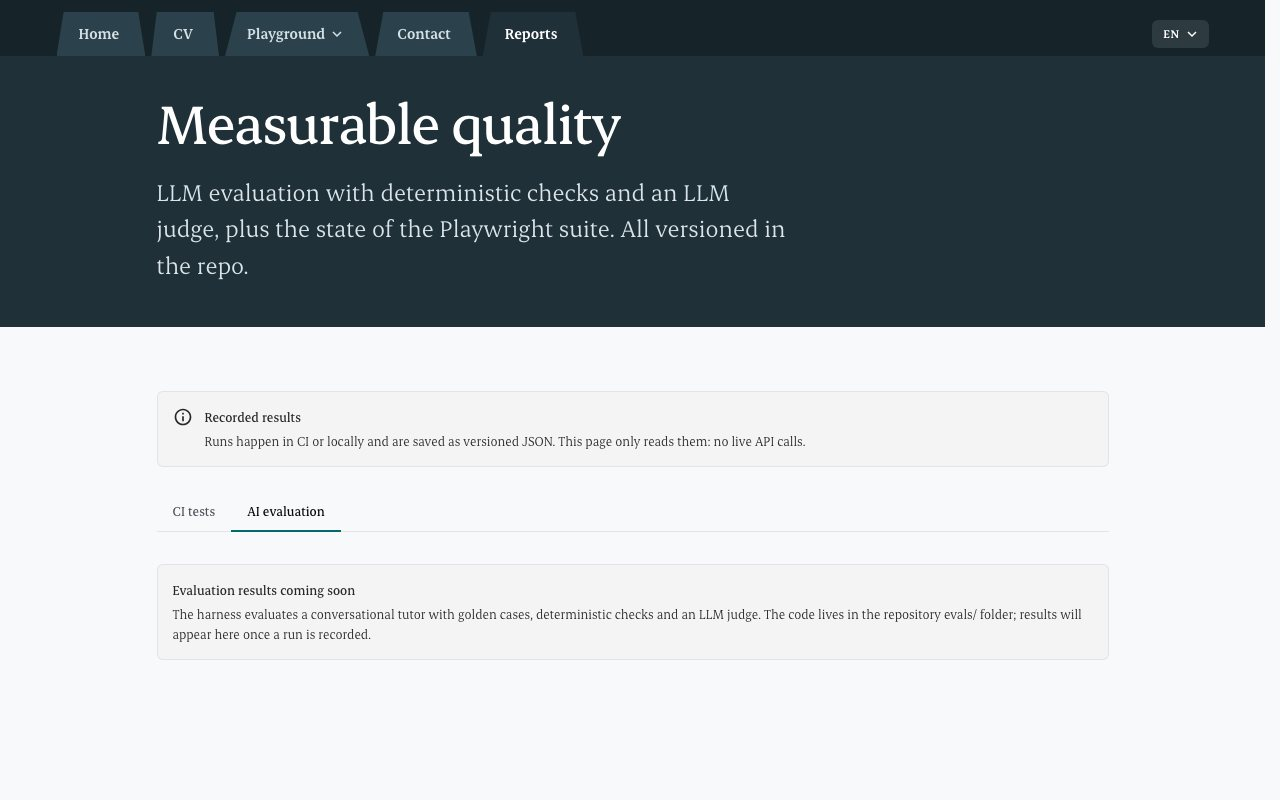
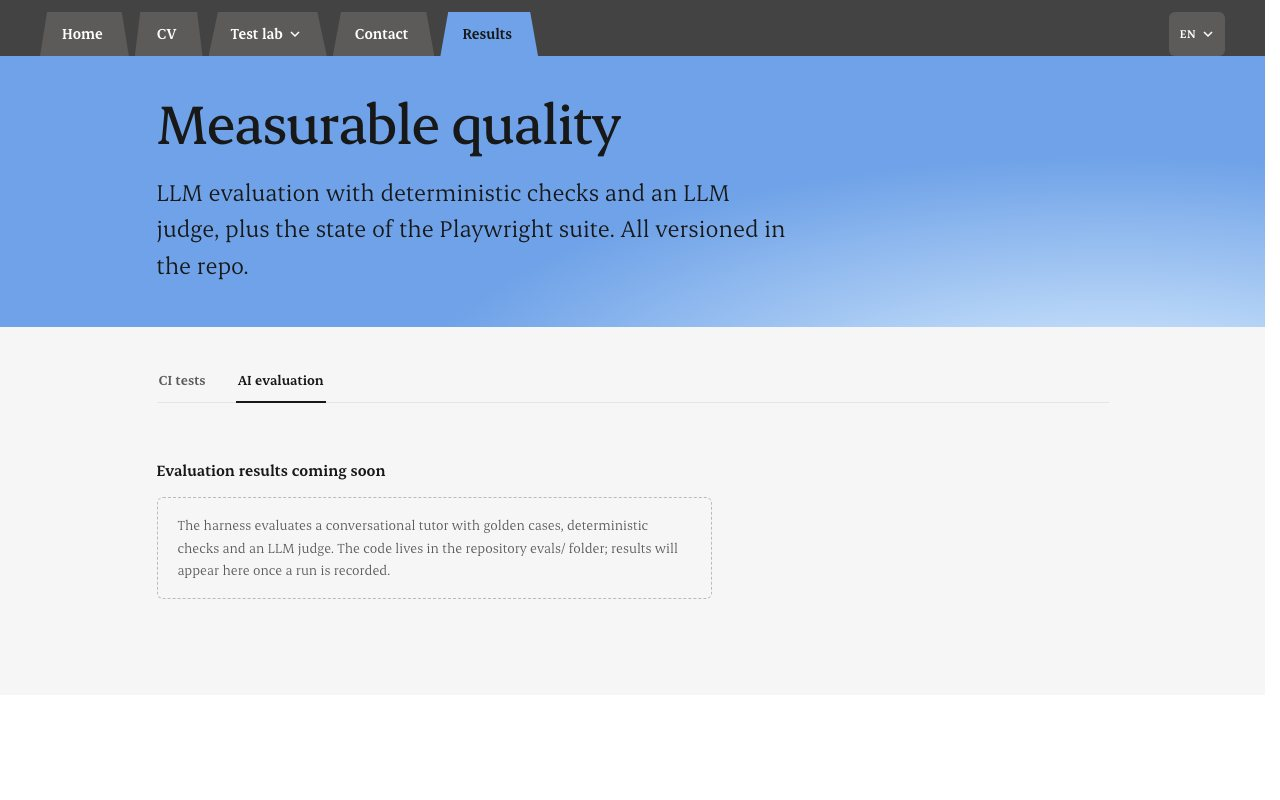
feat(web): recolour the whole site with the orange / sky-blue / warm-gray palette
- tokens: action orange, AA-safe orange text, sky and closing blue, warm grays, charcoal
- home: white canvas, sky-blue stage for the hero picture, folders as coloured proof cards,
  blue closing stage, charcoal footer with a striped relief
- bar and heads: charcoal bar, sky-blue page heads, active tab matches its page
- inner pages on warm gray; results bar in green; Chakra theme remapped to orange
- screenshots regenerated with the new palette

diff --git a/web/src/css/home.css b/web/src/css/home.css
@@ -3,8 +3,8 @@
   color: var(--ink);
 
   .hero {
-    background: var(--ink);
-    color: #fff;
+    background: var(--bg);
+    color: var(--ink);
     padding: clamp(40px, 6vw, 72px) var(--pad) 0;
     display: flex;
     flex-direction: column;
@@ -20,33 +20,37 @@
     font-size: clamp(3.4rem, 8vw, 8.5rem);
     line-height: 0.95;
     letter-spacing: -0.025em;
-    color: #fff;
+    color: var(--ink);
   }
   .hero-sub {
     margin-top: 24px;
     max-width: 46ch;
     font-size: var(--step-lead);
     line-height: 1.4;
-    color: #dbe5e9;
+    color: var(--muted);
     text-wrap: pretty;
   }
-  .hero-sub strong { color: #fff; font-weight: 600; }
+  .hero-sub strong { color: var(--ink); font-weight: 600; }
 
   .hero-copy .cta-row { margin-top: 28px; justify-content: flex-start; }
-  .hero-art { align-self: end; }
-  .hero-art img { display: block; width: auto; max-width: 100%; height: clamp(420px, 68vh, 640px); margin-left: auto; }
+  .hero-art {
+    align-self: stretch; display: flex; align-items: flex-end; justify-content: center; overflow: hidden; border-radius: 4px;
+    padding: clamp(24px, 4vw, 48px) clamp(16px, 3vw, 40px) 0;
+    background: radial-gradient(110% 62% at 50% 118%, var(--sky-glow) 0%, rgba(223, 241, 255, 0) 64%), var(--sky);
+  }
+  .hero-art img { display: block; width: auto; max-width: 100%; height: clamp(380px, 62vh, 600px); }
   .stack { width: 100%; max-width: 1200px; margin-top: clamp(32px, 5vw, 56px); display: flex; flex-direction: column; }
   .folder { position: relative; display: block; width: 100%; color: inherit; text-decoration: none; }
   .folder:hover { text-decoration: none; }
   .folder-1, .folder-2, .folder-3 { height: 72px; padding: 0 28px; display: flex; align-items: center; justify-content: flex-end; gap: 24px; }
-  .folder-1 { background: #2b424c; margin-top: 44px; color: #fff; }
-  .folder-2 { background: #365360; margin-top: 44px; color: #fff; }
-  .folder-3 { background: #cfdde2; margin-top: 44px; color: var(--ink); }
-  .folder-front { background: var(--bg); color: var(--ink); margin-top: 44px; padding: clamp(24px, 4vw, 48px) clamp(20px, 4vw, 48px) 0; text-align: left; }
+  .folder-1 { background: var(--card-earth); margin-top: 44px; color: var(--ink); }
+  .folder-2 { background: var(--card-blue); margin-top: 44px; color: var(--ink); }
+  .folder-3 { background: var(--action); margin-top: 44px; color: var(--action-ink); }
+  .folder-front { background: var(--stage); color: var(--ink); margin-top: 44px; padding: clamp(24px, 4vw, 48px) clamp(20px, 4vw, 48px) 0; text-align: left; }
   .folder-line { margin-right: auto; font-size: var(--step-body); max-width: 46ch; text-align: left; }
   .folder-result { font-size: var(--step-lead); font-weight: 600; font-variant-numeric: tabular-nums; }
-  .folder-1:hover { background: #33505b; } .folder-2:hover { background: #416270; } .folder-3:hover { background: #dbe7eb; }
-  .folder-1:focus-visible, .folder-2:focus-visible, .folder-3:focus-visible { outline: 3px solid #fff; outline-offset: -3px; }
+  .folder-1:hover { background: #b6b2a6; } .folder-2:hover { background: #9fc2d6; } .folder-3:hover { background: var(--action-hover); }
+  .folder-1:focus-visible, .folder-2:focus-visible, .folder-3:focus-visible { outline: 3px solid var(--ink); outline-offset: -3px; }
 
   .tab {
     margin: 0; position: absolute; top: -44px; left: 0; height: 44px; padding: 0 26px 0 22px;
@@ -55,9 +59,8 @@
     background: inherit; color: inherit;
   }
   .tab svg { width: 12px; height: 12px; }
-  .tab.docked:hover { background: #365360; color: #fff; }
-  .folder-3:focus-visible { outline-color: var(--ink); }
-  .tab.docked { position: fixed; top: 12px; z-index: 150; background: #2b424c; color: #d5e0e4; }
+  .tab.docked:hover { background: #747371; color: #fff; }
+  .tab.docked { position: fixed; top: 12px; z-index: 150; background: var(--dark-soft); color: #fff; }
 
   .front-grid { display: grid; grid-template-columns: minmax(0, 5fr) minmax(0, 7fr); gap: clamp(24px, 4vw, 56px); align-items: end; }
   .front-copy { padding-bottom: clamp(24px, 4vw, 48px); }
@@ -65,23 +68,24 @@
   .front-desc { margin-top: 16px; max-width: 38ch; font-size: var(--step-body); line-height: 1.5; }
   .front-shot-link { display: block; align-self: end; }
   .front-shot-link:focus-visible { outline: 3px solid var(--accent); outline-offset: 3px; }
-  .tab:focus-visible { outline: 3px solid #fff; outline-offset: -4px; clip-path: none; }
+  .tab:focus-visible { outline: 3px solid var(--ink); outline-offset: -4px; clip-path: none; }
+  .tab.docked:focus-visible { outline-color: #fff; }
   .folder-front .tab:focus-visible { outline-color: var(--accent); }
   .front-shot { display: block; width: 100%; height: auto; align-self: end; }
 
   .cta-row { display: flex; align-items: center; gap: 24px; margin-top: 28px; flex-wrap: wrap; }
   .btn-primary {
     display: inline-flex; align-items: center; min-height: 52px; padding: 0 28px;
-    background: var(--accent); color: #fff; font-weight: 600; font-size: var(--step-body);
+    background: var(--action); color: var(--action-ink); font-weight: 600; font-size: var(--step-body);
     clip-path: polygon(14px 0, calc(100% - 14px) 0, 100% 100%, 0 100%);
     transition: transform 0.15s, background 0.15s;
   }
-  .btn-primary:hover { background: #0a5c66; text-decoration: none; transform: translateY(-2px); }
+  .btn-primary:hover { background: var(--action-hover); text-decoration: none; transform: translateY(-2px); }
   .btn-primary:active { transform: translateY(0); }
   .btn-primary:focus-visible, .btn-link:focus-visible, .index-row:focus-visible, .close-mail:focus-visible { outline: 3px solid var(--accent); outline-offset: 3px; }
   .btn-link { display: inline-flex; align-items: center; min-height: 52px; font-weight: 600; font-size: var(--step-body); color: var(--accent); }
-  .btn-link.light, .close .btn-primary:focus-visible { color: #fff; }
-  .close .btn-primary:focus-visible, .close .btn-link:focus-visible, .close .close-mail:focus-visible { outline-color: #fff; }
+  .btn-link.light { color: var(--ink); text-decoration: underline; text-underline-offset: 5px; }
+  .close .btn-primary:focus-visible, .close .btn-link:focus-visible, .close .close-mail:focus-visible { outline-color: var(--ink); }
 
   .index { padding: clamp(80px, 12vw, 200px) max(var(--pad), calc((100% - var(--frame)) / 2)); scroll-margin-top: 72px; }
   .index-title { text-wrap: balance; font-family: var(--font-display); font-weight: 500; font-size: var(--step-head); line-height: 1; letter-spacing: -0.025em; }
@@ -100,22 +104,28 @@
   .frame-img { position: absolute; inset: 0; width: 100%; height: 100%; object-fit: cover; object-position: top; opacity: 0; transition: opacity 0.24s; }
   .frame-img.on { opacity: 1; }
 
-  .close { background: var(--ink); color: #fff; padding: clamp(72px, 10vw, 160px) max(var(--pad), calc((100% - var(--frame)) / 2)); scroll-margin-top: 72px; }
+  .close { background: radial-gradient(75% 150% at 108% 128%, var(--sky-glow) 0%, rgba(223, 241, 255, 0.55) 26%, rgba(223, 241, 255, 0.18) 48%, rgba(223, 241, 255, 0) 72%), var(--sky-deep); color: var(--ink); padding: clamp(72px, 10vw, 160px) max(var(--pad), calc((100% - var(--frame)) / 2)); scroll-margin-top: 72px; }
   .close-title { font-family: var(--font-display); font-weight: 500; font-size: clamp(2rem, 7vw, 7rem); line-height: 1; letter-spacing: -0.025em; max-width: 20ch; text-wrap: balance; }
-  .close-line { margin-top: 20px; font-size: var(--step-lead); color: #dbe5e9; }
+  .close-line { margin-top: 20px; font-size: var(--step-lead); color: var(--ink); }
   .close-row { margin-top: clamp(28px, 4vw, 48px); display: flex; align-items: center; gap: 32px; flex-wrap: wrap; }
-  .close-mail { color: #fff; font-size: var(--step-lead); font-weight: 600; min-height: 52px; display: inline-flex; align-items: center; text-decoration: underline; text-underline-offset: 6px; }
-  .close-mail:hover { color: #cfe9ec; }
-  .close .btn-primary { background: #fff; color: var(--ink); }
-  .close .btn-primary:hover { background: #cfe9ec; }
+  .close-mail { color: var(--ink); font-size: var(--step-lead); font-weight: 600; min-height: 52px; display: inline-flex; align-items: center; text-decoration: underline; text-underline-offset: 6px; }
+  .close-mail:hover { color: var(--dark); }
 
-  .back { background: var(--ink-deep); color: #c7d4d9; padding: clamp(40px, 6vw, 72px) max(var(--pad), calc((100% - var(--frame)) / 2)) 32px; overflow: hidden; }
+  .back { background: var(--dark); color: #e5e5e5; padding: clamp(40px, 6vw, 72px) max(var(--pad), calc((100% - var(--frame)) / 2)) 32px; overflow: hidden; }
   .back-name { font-family: var(--font-display); font-weight: 500; font-size: clamp(2.5rem, 12.5vw, 12rem); line-height: 0.9; letter-spacing: -0.03em; color: #fff; white-space: nowrap; }
   .footer-inner { margin-top: 32px; display: flex; align-items: center; justify-content: space-between; flex-wrap: wrap; gap: 12px 24px; }
-  .footer-copy { font-size: var(--step-body); color: #dbe5e9; max-width: 52ch; }
+  .footer-copy { font-size: var(--step-body); color: #e5e5e5; max-width: 52ch; }
   .footer-links { display: flex; gap: 8px; }
   .footer-links a { display: inline-flex; align-items: center; min-height: 44px; padding: 0 8px; color: #fff; font-size: var(--step-small); font-weight: 600; text-decoration: underline; text-underline-offset: 4px; }
   .footer-links a:focus-visible { outline: 3px solid #fff; outline-offset: 2px; }
+  .relief { position: relative; height: 168px; margin: 0; background: var(--dark); }
+  .relief::before {
+    content: ''; position: absolute; inset: 0;
+    background-image:
+      repeating-linear-gradient(90deg, #5c5b59 0 2px, transparent 2px 9px),
+      repeating-linear-gradient(90deg, transparent 0 4px, var(--dark-deep) 4px 6px, transparent 6px 14px);
+    clip-path: polygon(0 100%, 0 72%, 12% 72%, 12% 46%, 26% 46%, 26% 22%, 40% 22%, 40% 52%, 58% 52%, 58% 8%, 74% 8%, 74% 40%, 88% 40%, 88% 64%, 100% 64%, 100% 100%);
+  }
 
   &.rv .reveal { opacity: 0; transform: translateY(24px); transition: opacity 0.6s ease-out, transform 0.6s ease-out; }
   &.rv .reveal.in { opacity: 1; transform: none; }

diff --git a/web/src/css/topbar.css b/web/src/css/topbar.css
@@ -177,20 +177,21 @@
 }
 
 /* folder-tab bar */
-.topbar { background: var(--ink-deep); border-bottom: none; }
+.topbar { background: var(--dark); border-bottom: none; }
 .topbar-inner { height: 56px; align-items: flex-end; gap: 6px; padding: 12px max(var(--pad), calc((100% - var(--frame)) / 2)) 0; max-width: none; }
 .topbar-link, .nav-menu-btn {
   height: 44px; min-height: 44px; padding: 0 26px 0 22px; border-radius: 0; font-size: 1rem; font-weight: 600;
-  display: inline-flex; align-items: center; gap: 6px; background: #2b424c; color: #d5e0e4; white-space: nowrap;
+  display: inline-flex; align-items: center; gap: 6px; background: var(--dark-soft); color: #fff; white-space: nowrap;
   clip-path: polygon(0 100%, 8% 0, 92% 0, 100% 100%);
   transition: background 0.15s, color 0.15s, transform 0.4s cubic-bezier(0.22, 1, 0.36, 1), opacity 0.3s;
 }
-.topbar-link:hover, .nav-menu-btn:hover { background: #365360; color: #fff; text-decoration: none; }
-.topbar-link.active, .nav-menu-btn.active { background: var(--ink); color: #fff; }
+.topbar-link:hover, .nav-menu-btn:hover { background: #747371; color: #fff; text-decoration: none; }
+.topbar-link.active, .nav-menu-btn.active { background: var(--sky); color: var(--ink); }
+.topbar.is-home .topbar-link.active { background: var(--bg); }
 .topbar-link:focus-visible, .nav-menu-btn:focus-visible { outline: 3px solid #fff; outline-offset: -4px; clip-path: none; }
 .lang-switcher { align-self: center; }
 .lang-btn { min-height: 44px; min-width: 44px; justify-content: center; }
-.lang-btn { background: rgba(255,255,255,0.1); border-color: transparent; color: #fff; }
+.lang-btn { background: var(--dark-soft); border-color: transparent; color: #fff; }
 .lang-btn:hover { color: #fff; border-color: rgba(255,255,255,0.5); }
 .lang-btn:focus-visible { outline: 2px solid #fff; outline-offset: 2px; }
 .lang-dropdown, .nav-menu-list { border-color: transparent; box-shadow: 0 4px 12px rgba(0,0,0,0.18); }

diff --git a/web/src/css/tokens.css b/web/src/css/tokens.css
@@ -7,30 +7,40 @@
 :root {
   --font-display: 'Erode', Georgia, serif;
   --font-body: 'Erode', Georgia, serif;
-  --ink: #1f3038;
-  --ink-deep: #16242a;
-  --accent: #0d7480;
-  --accent-light: rgba(13, 116, 128, 0.12);
-  --bg: #f7f9fa;
-  --surface: #ecf0f2;
+  --ink: #181818;
+  --dark: #434343;
+  --dark-soft: #5c5b59;
+  --dark-deep: #2e2e2e;
+  --action: #fb631b;
+  --action-hover: #f4793f;
+  --action-ink: #181818;
+  --accent: #c2410c;
+  --accent-light: rgba(251, 99, 27, 0.12);
+  --sky: #6fa2e8;
+  --sky-deep: #548fd1;
+  --sky-glow: #dff1ff;
+  --peach: #fcddcf;
+  --notice: #e9f0f5;
+  --card-earth: #a8a497;
+  --card-blue: #8fb6cc;
+  --card-green: #5fa96c;
+  --bg: #ffffff;
+  --surface: #f6f6f6;
+  --stage: #ebe9e3;
   --white: #ffffff;
-  --text: #1f3038;
-  --heading: #1f3038;
-  --muted: #4d5c63;
-  --border: #d3dde1;
-  --divider: #c3d0d5;
-  --text-faint: #566870;
-  --chip-bg: #e3eaed;
-  --chip-text: #2f424a;
-  --border-strong: #b5c4ca;
+  --text: #181818;
+  --heading: #181818;
+  --muted: #5c5b59;
+  --text-faint: #6b6a66;
+  --border: #e5e5e5;
+  --divider: #d6d6d6;
+  --chip-bg: #eeeeee;
+  --chip-text: #434343;
+  --border-strong: #bdbbb6;
   --shadow: none;
   --max-width: 800px;
-  --folder-slate: #2b424c;
-  --folder-slate-mid: #365360;
-  --folder-frost: #cfdde2;
-  --steel-side: #a9bcc4;
-  --ink-deep-token: #16242a;
-  --rule: #e3eaed;
+  --rule: #eeeeee;
+  --pass: #3f8f55;
   --negative: #c4242a;
   --negative-bg: #ffedea;
   --negative-ink: #831c1e;
@@ -60,3 +70,5 @@ a:hover { text-decoration: underline; }
 
 .sr-only { position: absolute; width: 1px; height: 1px; padding: 0; margin: -1px; overflow: hidden; clip: rect(0, 0, 0, 0); white-space: nowrap; border: 0; }
 ::selection { background: var(--accent); color: #fff; }
+
+.reports-page, .pg-page, .contact-page, .cv-page { background: var(--surface); min-height: calc(100vh - 56px); }

diff --git a/web/src/css/folder.css b/web/src/css/folder.css
@@ -1,8 +1,8 @@
-.folder-head { view-transition-name: folder-open; background: var(--ink); }
+.folder-head { view-transition-name: folder-open; background: var(--sky); }
 .folder-head .fh-in { max-width: var(--fh-w, 800px); margin: 0 auto; padding: 0 24px; }
-.folder-head .fh-band { background: var(--ink); padding: clamp(20px, 3vw, 36px) 0 clamp(24px, 4vw, 44px); }
-.folder-head .fh-band .page-title { font-family: var(--font-display); font-weight: 500; font-size: var(--step-head); line-height: 1; letter-spacing: -0.025em; color: #fff; margin: 0; }
-.folder-head .fh-band .page-desc { margin: 20px 0 0; max-width: 46ch; font-size: var(--step-lead); line-height: 1.4; color: #dbe5e9; }
+.folder-head .fh-band { background: radial-gradient(90% 150% at 88% 130%, var(--sky-glow) 0%, rgba(223, 241, 255, 0) 62%), var(--sky); padding: clamp(20px, 3vw, 36px) 0 clamp(24px, 4vw, 44px); }
+.folder-head .fh-band .page-title { font-family: var(--font-display); font-weight: 500; font-size: var(--step-head); line-height: 1; letter-spacing: -0.025em; color: var(--ink); margin: 0; }
+.folder-head .fh-band .page-desc { margin: 20px 0 0; max-width: 46ch; font-size: var(--step-lead); line-height: 1.4; color: var(--ink); }
 ::view-transition-group(folder-open) { animation-duration: 0.55s; animation-timing-function: cubic-bezier(0.22, 1, 0.36, 1); }
 ::view-transition-old(root), ::view-transition-new(root) { animation-duration: 0.35s; }
 @media (prefers-reduced-motion: reduce) {

diff --git a/web/src/css/playground.css b/web/src/css/playground.css
@@ -16,9 +16,9 @@
 .pg-h2 { font-family: var(--font-display); font-size: 1.4rem; font-weight: 400; color: var(--heading); margin: 32px 0 12px; }
 .pg-error { color: #c53030; font-size: 0.85rem; margin-top: 6px; }
 
-.pg-btn { display: inline-flex; align-items: center; justify-content: center; padding: 8px 16px; border-radius: 6px; border: 1px solid var(--accent); background: var(--accent); color: #fff; font: 600 0.85rem var(--font-body); cursor: pointer; text-decoration: none; transition: opacity 0.15s; }
+.pg-btn { display: inline-flex; align-items: center; justify-content: center; padding: 8px 16px; border-radius: 6px; border: 1px solid var(--action); background: var(--action); color: var(--action-ink); font: 600 0.85rem var(--font-body); cursor: pointer; text-decoration: none; transition: opacity 0.15s; }
 .pg-btn:hover { opacity: 0.9; text-decoration: none; }
-.pg-btn.secondary { background: var(--white); color: var(--accent); }
+.pg-btn.secondary { background: var(--white); color: var(--accent); border-color: var(--accent); }
 .pg-btn:disabled, .pg-btn[aria-disabled='true'] { opacity: 0.45; cursor: not-allowed; pointer-events: none; }
 .pg-btn:focus-visible, .pg-link:focus-visible, .pg-qty button:focus-visible { outline: 2px solid var(--accent); outline-offset: 2px; }
 

diff --git a/web/src/css/reports.css b/web/src/css/reports.css
@@ -38,7 +38,7 @@
 
 .rp-legend { display: flex; gap: 20px; flex-wrap: wrap; margin: 0 0 10px; font-size: 0.8125rem; color: var(--muted); }
 .rp-legend span { display: inline-flex; align-items: center; gap: 8px; }
-.rp-legend .dot, .rp-bar .seg.pass { background: var(--accent); }
+.rp-legend .dot, .rp-bar .seg.pass { background: var(--pass); }
 .rp-legend .dot { width: 8px; height: 8px; border-radius: 50%; display: inline-block; }
 .rp-legend .dot.skip, .rp-bar .seg.skip { background: var(--border-strong); }
 .rp-legend .dot.flaky, .rp-bar .seg.flaky { background: var(--warn-ink); }

diff --git a/web/src/theme.ts b/web/src/theme.ts
@@ -8,10 +8,10 @@ export const system = createSystem(
       semanticTokens: {
         colors: {
           teal: {
-            solid: { value: '#01696f' },
-            contrast: { value: '#ffffff' },
-            fg: { value: '#01696f' },
-            focusRing: { value: '#01696f' },
+            solid: { value: '#fb631b' },
+            contrast: { value: '#181818' },
+            fg: { value: '#c2410c' },
+            focusRing: { value: '#fb631b' },
           },
         },
       },

diff --git a/web/src/pages/Home.tsx b/web/src/pages/Home.tsx
@@ -212,6 +212,7 @@ export function Home() {
           </nav>
         </div>
       </footer>
+      <div className="relief" aria-hidden="true" />
     </div>
   );
 }
